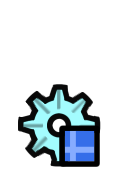
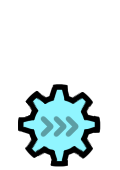
1.5.0

Changed region(s): [[0.15, 0.5294, 0.85, 1.0], [0.6, 0.5882, 0.725, 0.6765]]

diff --git a/src/main.cpp b/src/main.cpp
@@ -342,6 +342,18 @@
 				case 3605: {
 					setIcon("editsong.png"_spr);
 					break;
+				}
+				case 3029: {
+					setIcon("bgc.png"_spr);
+					break;
+				} 
+				case 3030: {
+					setIcon("gc.png"_spr);
+					break;
+				} 
+				case 3031: {
+					setIcon("mgc.png"_spr);
+					break;
 				} 
 			}
 			
@@ -963,6 +975,7 @@ public:
                 else if (id == 72) addTex("evlef.png"_spr, "evlefs.png"_spr);
                 else if (id == 73) addTex("evright.png"_spr, "evrights.png"_spr);
                 else if (id == 74) addTex("evrig.png"_spr, "evrigs.png"_spr);
+				else if (id == 75) addTex("evreverse.png"_spr, "evreverses.png"_spr);
                 else if (id == 60 || id == 64) addTex("evsave.png"_spr, "evsaves.png"_spr);
                 else if ((id >= 26 && id <= 33) || (id >= 50 && id <= 59)) addTex("evportal.png"_spr, "evportals.png"_spr);
                 else addTex("ev.png"_spr, "evs.png"_spr);
@@ -1237,6 +1250,7 @@ class $modify(SetupTriggerPopup) {
                 else if (id == 72) addTex("evlef.png"_spr, "evlefs.png"_spr);
                 else if (id == 73) addTex("evright.png"_spr, "evrights.png"_spr);
                 else if (id == 74) addTex("evrig.png"_spr, "evrigs.png"_spr);
+				else if (id == 75) addTex("evreverse.png"_spr, "evreverses.png"_spr);
                 else if (id == 60 || id == 64) addTex("evsave.png"_spr, "evsaves.png"_spr);
                 else if ((id >= 26 && id <= 33) || (id >= 50 && id <= 59)) addTex("evportal.png"_spr, "evportals.png"_spr);
                 else addTex("ev.png"_spr, "evs.png"_spr);

diff --git a/changelog.md b/changelog.md
@@ -1,10 +1,19 @@
-## v1.4.2
+# v1.5.0
+## Visual Refresh Update
+- Added 5 completely new trigger sprites.
+- Updated and replaced 25 old trigger sprites with new redesigned versions.
+- Improved overall visual consistency between trigger categories.
+- Minor tweaks to sprite alignment and scaling in the editor.
+
+# v1.4.2
+## Editor Interaction Fixes & Tweaks
 - Added dynamic texture for Item Edit triggers.
 - Added two new settings for Item Edit textures.
 - Updated some trigger textures.
 - Dynamic button now disappears during Playtest.
 
-## v1.4.0
+# v1.4.0
+## Dynamic Texture Expansion
 - Added new dynamic textures:
   - UI trigger
   - Item comp trigger
@@ -13,21 +22,28 @@
   - Enable UI dynamic texture
 - Added a button in the editor to toggle dynamic textures.
 
-## v1.3.3
+# v1.3.3
+## Smart Event Composition
 - Added a new feature: when an Event trigger contains multiple actions that cannot be represented by a single texture, the mod now automatically combines multiple textures into one.
 - Added a new setting to enable or configure this texture-combination behavior.
 
-## v1.3.2
+# v1.3.2
+## Visual Settings Overhaul
 - Added *<cr>V</c><co>i</c><cy>S</c><cg>u</c><cj>A</c><cl>l</c>* settings 😎
 
-## v1.3.1
-- Added new trigger textures (song, song edit, shake)
+# v1.3.1
+## Trigger Sprite Settings
+- Added new trigger textures:
+  - Song
+  - Song Edit
+  - Shake
 - Added new settings:
   - Reset StartPos trigger texture
   - Reset Shake trigger texture
   - Reset Area Stop trigger texture
 
-## v1.30
+# v1.30
+## Dynamic Behavior Update
 - Added dynamic texture updates for SFX and Event triggers:
   - SFX textures now change depending on volume.
   - Event textures now change based on their settings.
@@ -35,24 +51,27 @@
   - Added volume threshold setting for SFX triggers to control texture changes.
 - Added several new textures for triggers that previously did not have custom visuals.
 
-## v1.20
-- Added new cameras trigger texture
-- Added some new trigger texture
-- Added new settings
+# v1.20
+## Camera & Visual Additions
+- Added new cameras trigger texture.
+- Added several new trigger textures.
+- Added new settings.
 
-## v1.10
-- Added new trigger texture:
+# v1.10
+## Trigger visualizer
+- Added new trigger textures:
   - Gameplay triggers
   - Area triggers
   - Logical triggers
 - Added mod settings:
-  - Toggle texture replacement per trigger category
-- Fixed shader trigger icon offset in the editor
-- Improved overall editor visual clarity
+  - Toggle texture replacement per trigger category.
+- Fixed shader trigger icon offset in the editor.
+- Improved overall editor visual clarity.
 
-## v1.0.1
-- Cross-platform release
+# v1.0.1
+## Platform Compatibility Patch
+- Cross-platform release.
 
-## v1.0.0
-- Initial release
-
+# v1.0.0
+## Shader visualizer
+- Initial release.
